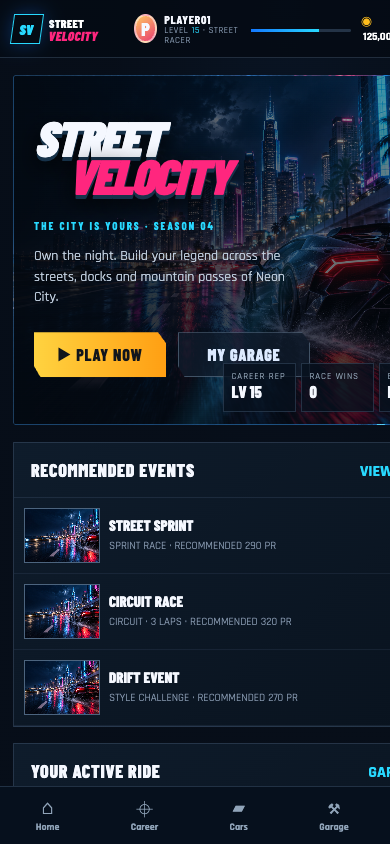
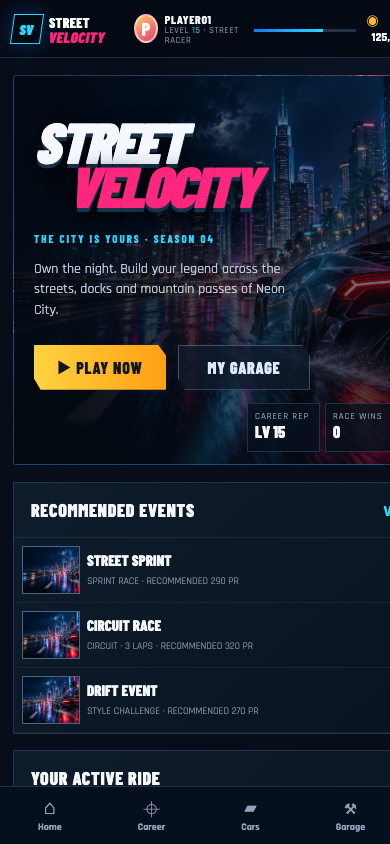
Improve phone layout and add game screenshots

diff --git a/Web_Game/style.css b/Web_Game/style.css
@@ -1,7 +1,7 @@
 @import url('https://fonts.googleapis.com/css2?family=Barlow+Condensed:wght@500;600;700;800;900&family=Rajdhani:wght@400;500;600;700&display=swap');
 :root{--bg:#07101d;--panel:rgba(9,19,33,.86);--line:rgba(143,181,222,.2);--muted:#8294aa;--text:#f5f8ff;--cyan:#28d9ff;--blue:#1479ff;--pink:#ff267e;--gold:#ffbd1c;--green:#31e994;--font:'Rajdhani',Arial,sans-serif;--display:'Barlow Condensed',Impact,sans-serif}*{box-sizing:border-box}html,body{height:100%;margin:0;background:var(--bg);color:var(--text);font-family:var(--font)}body{background:radial-gradient(ellipse at 74% 0%,#102744 0,transparent 43%),#060d17;overflow:hidden}button{font:inherit;color:inherit;cursor:pointer;border:0}button:focus-visible{outline:2px solid var(--cyan);outline-offset:2px}.app-shell{height:100dvh;min-height:480px;display:grid;grid-template-columns:220px 1fr;grid-template-rows:72px 1fr;overflow:hidden;background:linear-gradient(135deg,rgba(7,14,25,.7),rgba(7,14,25,.95))}.topbar{grid-column:1/3;display:flex;align-items:center;padding:0 28px;gap:24px;background:rgba(4,10,19,.84);border-bottom:1px solid var(--line);z-index:5}.brand{width:195px;display:flex;align-items:center;gap:10px;color:white;text-decoration:none;font:800 18px var(--display);letter-spacing:.3px}.brand b{color:var(--pink);display:block;line-height:15px;font-size:19px;transform:skew(-10deg)}.brand-mark{display:grid;place-items:center;width:36px;height:36px;border:1px solid var(--cyan);color:var(--cyan);font:900 17px var(--display);transform:skew(-8deg);box-shadow:0 0 18px #1479ff55}.profile{display:flex;align-items:center;gap:10px;min-width:200px}.avatar{width:35px;height:35px;border-radius:50%;background:linear-gradient(145deg,#ffc862,#e83c70);display:grid;place-items:center;font:800 18px var(--display);border:2px solid #fff8}.profile-copy{display:grid;line-height:1.1}.profile-copy b{font:700 14px var(--display);letter-spacing:.7px}.profile-copy small{color:var(--muted);font-size:11px;letter-spacing:.6px}.profile-copy small span{color:var(--cyan)}.xp{height:3px;width:130px;background:#243346;margin-top:4px;border-radius:4px}.xp i{display:block;width:68%;height:100%;background:linear-gradient(90deg,var(--blue),var(--cyan))}.wallet{margin-left:auto;display:flex;gap:21px;font-size:15px}.wallet span:first-child{color:var(--gold)}.wallet span:last-child{color:var(--cyan)}.wallet b{color:white;margin-left:5px}.icon-button,.menu-toggle{width:38px;height:38px;background:#111e2e;border:1px solid var(--line);font-size:19px;color:#d6e6fa}.menu-toggle{display:none}.sidebar{grid-row:2;background:rgba(6,14,24,.82);border-right:1px solid var(--line);padding:25px 14px;display:flex;flex-direction:column;gap:7px;z-index:4}.side-label{color:#5c6f84;font:700 11px var(--display);letter-spacing:1.4px;padding:0 12px 12px}.nav-item{background:transparent;text-align:left;border:1px solid transparent;border-radius:3px;padding:11px 12px;color:#aab8c9;font-size:15px;font-weight:700;letter-spacing:.3px;display:flex;align-items:center;gap:12px;transition:.18s}.nav-item span{color:#7e91a8;font-size:18px;width:18px;text-align:center}.nav-item:hover,.nav-item.active{color:white;background:linear-gradient(90deg,rgba(27,119,255,.25),rgba(24,165,230,.05));border-color:rgba(48,180,255,.18)}.nav-item.active{box-shadow:inset 3px 0 var(--cyan)}.nav-item.active span{color:var(--cyan)}.sidebar-bottom{margin-top:auto}.daily-mini{display:flex;align-items:center;gap:9px;padding:12px 9px;margin-bottom:9px;border:1px solid rgba(255,190,25,.2);background:linear-gradient(120deg,#252115,#121d29)}.daily-icon{color:var(--gold);font-size:20px}.daily-mini div{display:grid;line-height:1.05}.daily-mini b{font:700 13px var(--display)}.daily-mini small{font-size:11px;color:var(--muted)}.daily-mini button{margin-left:auto;background:none;color:var(--gold);font-size:22px}.main{position:relative;overflow:auto;scrollbar-width:thin;scrollbar-color:#273b52 transparent}.screen{display:none;min-height:100%;padding:26px clamp(20px,3vw,46px) 34px;animation:fade .24s ease}.screen.active{display:block}@keyframes fade{from{opacity:.4;transform:translateY(5px)}to{opacity:1;transform:none}}.page-heading{display:flex;align-items:end;justify-content:space-between;margin-bottom:22px}.eyebrow{font:700 11px var(--display);color:var(--cyan);letter-spacing:2px;text-transform:uppercase}.page-heading h1,.hero-copy h1{font:900 clamp(30px,4vw,50px)/.95 var(--display);letter-spacing:.5px;text-transform:uppercase;margin:5px 0 0}.subhead{color:#9db0c4;margin:7px 0 0;font-size:15px}.title-inline{display:flex;align-items:center;gap:14px}.back{background:transparent;border:1px solid var(--line);padding:8px 12px;color:#aebed0}.hero{position:relative;min-height:clamp(340px,50vh,510px);overflow:hidden;border:1px solid rgba(74,158,230,.35);background:#101d30 url('assets/neon-district.png') center 56%/cover;border-radius:3px;display:flex;align-items:center}.hero:before{content:"";position:absolute;inset:0;background:linear-gradient(90deg,rgba(3,9,17,.94) 0%,rgba(3,9,17,.76) 29%,rgba(4,10,19,.12) 67%,rgba(3,9,17,.1)),linear-gradient(0deg,rgba(3,9,17,.56),transparent 45%)}.hero:after{content:"";position:absolute;inset:0;pointer-events:none;background:linear-gradient(120deg,transparent 54%,rgba(32,190,255,.13),transparent 64%)}.hero-copy{position:relative;z-index:1;padding:clamp(28px,5vw,70px);max-width:570px}.hero-logo{font:900 clamp(48px,7vw,82px)/.78 var(--display);font-style:italic;letter-spacing:-2px;text-shadow:0 4px 0 #16324a,0 9px 24px #000}.hero-logo span{display:block;color:var(--pink);margin-left:34px}.hero-copy .eyebrow{margin-top:24px}.hero-copy p{max-width:400px;color:#c0cede;line-height:1.45;font-size:16px}.actions{display:flex;gap:12px;flex-wrap:wrap;margin-top:25px}.btn{padding:12px 22px;min-width:132px;font:800 16px var(--display);letter-spacing:.8px;text-transform:uppercase;clip-path:polygon(0 0,94% 0,100% 24%,100% 100%,5% 100%,0 75%);transition:.16s}.btn:hover{filter:brightness(1.13);transform:translateY(-1px)}.btn.primary{color:#11151c;background:linear-gradient(90deg,#ffd340,#ff9f13);box-shadow:0 0 22px #ffba2638}.btn.secondary{background:rgba(15,27,43,.78);border:1px solid #8da8c266;color:#dceaff}.btn.cyan{background:linear-gradient(90deg,#27d9ff,#197dff);color:#001321}.btn.pink{background:linear-gradient(90deg,#ff2779,#f249a5);color:white}.hero-stats{position:absolute;right:28px;bottom:24px;z-index:1;display:flex;gap:9px}.stat-chip{background:#06101dcc;border:1px solid var(--line);padding:10px 14px;min-width:104px}.stat-chip small{display:block;color:#93a5b7;font-size:11px;text-transform:uppercase;letter-spacing:1px}.stat-chip b{font:800 20px var(--display)}.content-grid{display:grid;grid-template-columns:1.65fr 1fr;gap:16px;margin-top:17px}.panel{background:linear-gradient(140deg,rgba(15,28,44,.96),rgba(9,18,30,.96));border:1px solid var(--line);position:relative;overflow:hidden}.panel-head{padding:14px 17px;display:flex;align-items:center;justify-content:space-between;border-bottom:1px solid rgba(143,181,222,.12)}.panel-head h2{font:800 18px var(--display);letter-spacing:.7px;text-transform:uppercase;margin:0}.text-link{color:var(--cyan);background:none;font-weight:700}.event-row{display:grid;grid-template-columns:112px 1fr auto;align-items:center;gap:14px;padding:12px 16px;border-bottom:1px solid rgba(143,181,222,.09)}.event-thumb{height:68px;background:url('assets/neon-district.png') center/cover;border:1px solid #4c647e}.event-info strong{font:800 18px var(--display);text-transform:uppercase;display:block}.event-info small{color:var(--muted)}.reward{color:var(--gold);font-weight:700;font-size:14px}.mini-car{height:80px;background:radial-gradient(ellipse at 55% 78%,#2469a455,transparent 40%),linear-gradient(135deg,#0e2034,#111927);display:flex;align-items:center;justify-content:center;font-size:44px;color:#e34265;text-shadow:0 8px 14px #fa205e65}.garage-summary{padding:0 17px 16px}.garage-summary h3{margin:0 0 2px;font:800 21px var(--display)}.garage-summary p{margin:0;color:var(--muted)}.bars{display:grid;grid-template-columns:repeat(3,1fr);gap:10px;margin-top:15px}.bar-label{display:flex;justify-content:space-between;font-size:11px;color:#a9b9ca;margin-bottom:4px}.bar{height:4px;background:#243449}.bar i{height:100%;display:block;background:linear-gradient(90deg,#118cff,#2de0ff)}.feature-strip{display:grid;grid-template-columns:repeat(4,1fr);gap:12px;margin-top:16px}.feature{padding:14px;background:rgba(13,25,40,.78);border:1px solid var(--line);min-height:86px;text-align:left}.feature:hover{border-color:#23beef77;background:#10243a}.feature b{display:block;font:800 17px var(--display);text-transform:uppercase}.feature small{color:var(--muted)}.feature .feature-icon{float:right;color:var(--cyan);font-size:23px}.map-layout{display:grid;grid-template-columns:1.5fr .8fr;gap:16px;min-height:440px}.map-art{position:relative;min-height:430px;overflow:hidden;background:linear-gradient(160deg,#0b2a40,#101328 54%,#221338);border:1px solid var(--line)}.map-art:before{content:"";position:absolute;inset:0;background:linear-gradient(35deg,transparent 46%,#1989d92b 47%,#1989d92b 48%,transparent 49%),linear-gradient(150deg,transparent 31%,#ed2b8a38 32%,#ed2b8a38 32.5%,transparent 33%),linear-gradient(83deg,transparent 65%,#28d9ff2c 66%,#28d9ff2c 66.5%,transparent 67%),radial-gradient(ellipse at 53% 42%,#148a9655,transparent 43%),repeating-linear-gradient(20deg,transparent 0 47px,#9ab9d015 48px 50px)}.map-art:after{content:"";position:absolute;inset:0;background:radial-gradient(circle at 27% 29%,#25d8ffcc 0 2px,transparent 3px),radial-gradient(circle at 54% 50%,#ff3a9acc 0 2px,transparent 3px),radial-gradient(circle at 77% 26%,#29d9ffcc 0 2px,transparent 3px);opacity:.9}.district{position:absolute;z-index:1;padding:10px 13px;background:#08111fe8;border:1px solid #41d6ff88;box-shadow:0 0 17px #1189ff35;min-width:112px;cursor:pointer}.district:hover,.district.selected{border-color:var(--gold);box-shadow:0 0 22px #ffba4142}.district b{font:800 16px var(--display);display:block;text-transform:uppercase}.district small{color:var(--gold)}.d1{left:9%;top:16%}.d2{left:42%;top:39%}.d3{right:7%;top:15%}.d4{left:20%;bottom:12%}.d5{right:22%;bottom:11%;border-color:#d537ef77}.map-side{padding:20px}.map-side h2{font:900 30px var(--display);margin:0;text-transform:uppercase}.map-side p{color:#9caec2;line-height:1.45}.event-list{display:grid;gap:9px;margin-top:18px}.event-option{padding:12px;background:#0b1726;border:1px solid var(--line);display:flex;align-items:center;gap:12px;text-align:left}.event-option.active{border-color:var(--cyan);background:#10273a}.event-symbol{width:37px;height:37px;background:#152a41;display:grid;place-items:center;color:var(--cyan);font-size:19px}.event-option b{display:block;font:800 16px var(--display);text-transform:uppercase}.event-option small{color:var(--muted)}.event-option .star{margin-left:auto;color:var(--gold)}.event-feature{height:140px;margin:17px 0;background:linear-gradient(0deg,#06101d77,#06101d00),url('assets/neon-district.png') center 54%/cover;border:1px solid var(--line)}.event-meta{display:flex;justify-content:space-between;padding:10px 0;border-bottom:1px solid var(--line);color:#aebed0}.event-meta b{color:white}.car-stage{min-height:370px;background:linear-gradient(90deg,rgba(5,14,24,.8),transparent 45%),url('assets/neon-district.png') center 58%/cover;border:1px solid var(--line);position:relative;display:flex;align-items:center;justify-content:center}.car-shape{font-size:clamp(130px,24vw,250px);color:#101a29;filter:drop-shadow(0 20px 18px #000) drop-shadow(0 0 7px #19c8ff);transform:scaleX(1.5) rotate(-7deg);text-shadow:0 2px 0 #92daff,0 0 24px #0af}.car-caption{position:absolute;left:24px;top:23px}.car-caption h2{font:900 32px var(--display);margin:0;text-transform:uppercase}.car-caption p{margin:2px;color:#9bb0c4}.car-selector{display:grid;grid-template-columns:repeat(5,1fr);gap:10px;margin-top:13px}.car-option{background:#0c1928;border:1px solid var(--line);padding:10px;text-align:left}.car-option.active{border-color:var(--cyan);box-shadow:0 0 14px #05bdf533}.car-option .car-mini{height:46px;background:linear-gradient(140deg,#15263a,#0b1320);display:grid;place-items:center;font-size:30px;color:var(--pink)}.car-option b{display:block;font:800 14px var(--display);margin-top:6px}.car-option small{color:var(--muted)}.garage-layout{display:grid;grid-template-columns:190px 1fr;gap:15px}.garage-tabs{display:grid;align-content:start;gap:7px}.garage-tab{padding:12px;text-align:left;background:#0c1827;border:1px solid var(--line);font:800 15px var(--display);text-transform:uppercase}.garage-tab.active{border-color:var(--gold);color:var(--gold)}.garage-detail{min-height:430px}.garage-detail .car-stage{height:330px;min-height:330px;border:0;border-bottom:1px solid var(--line)}.garage-detail .bars{padding:0 17px 18px;margin-top:14px}.custom-layout{display:grid;grid-template-columns:1.4fr .7fr;gap:15px}.preview-car{min-height:420px;display:grid;place-items:center;background:url('assets/neon-district.png') center/cover;border:1px solid var(--line)}.preview-car .car-shape{color:#cc174e}.custom-panel{padding:18px}.tabs{display:flex;gap:6px;border-bottom:1px solid var(--line);margin:12px 0 18px}.tab{background:transparent;padding:10px 12px;color:#9cacc0;font:700 13px var(--display);text-transform:uppercase}.tab.active{color:var(--cyan);border-bottom:2px solid var(--cyan)}.swatches{display:flex;gap:8px;flex-wrap:wrap}.swatch{width:34px;height:34px;border:2px solid #ffffff24;cursor:pointer}.swatch.selected{outline:2px solid white;outline-offset:2px}.range-row{margin:20px 0;color:#a9b8c8;font-size:14px}.range-row input{width:100%;accent-color:var(--cyan)}.upgrade-layout{display:grid;grid-template-columns:1fr 1fr;gap:15px}.engine-art{min-height:385px;background:radial-gradient(ellipse at center,#39516a,#101826 56%,#0b1320);display:grid;place-items:center;border:1px solid var(--line);font-size:150px;color:#94a9bc;text-shadow:0 0 30px #3298d966}.upgrade-panel{padding:22px}.upgrade-panel h2{font:900 30px var(--display);margin:0}.upgrade-item{display:flex;justify-content:space-between;gap:10px;padding:11px 0;border-bottom:1px solid var(--line)}.upgrade-item small{display:block;color:var(--muted)}.upgrade-item b{color:var(--green)}.parts-grid{grid-column:1/3;display:grid;grid-template-columns:repeat(6,1fr);gap:8px}.part-card{padding:10px;text-align:center;background:#0b1726;border:1px solid var(--line)}.part-card span{display:block;font-size:25px;color:#9db0c5}.part-card b{font:700 14px var(--display);display:block}.part-card small{color:var(--muted)}.race-stage{height:calc(100vh - 145px);min-height:450px;max-height:800px;position:relative;margin:-26px clamp(-46px,-3vw,-20px) -34px;overflow:hidden;background:#101a29}.race-world{position:absolute;inset:0;background:url('assets/neon-district.png') center 58%/cover;animation:drive 13s linear infinite}.race-world:after{content:"";position:absolute;inset:0;background:linear-gradient(0deg,#050a11ee,transparent 38%),linear-gradient(90deg,#060d176e,transparent 50%,#060d1777)}@keyframes drive{0%{background-position:center 58%}50%{background-position:50% 65%}100%{background-position:center 58%}}.race-hud{position:absolute;inset:20px 24px;z-index:1;display:flex;flex-direction:column;justify-content:space-between;pointer-events:none}.hud-top{display:flex;justify-content:space-between;align-items:flex-start}.hud-card{padding:10px 14px;background:#06101dcc;border:1px solid #bfdfff40;min-width:130px}.hud-card b{font:800 24px var(--display)}.hud-card small{display:block;color:#a4b7ca;letter-spacing:1px}.hud-center{position:absolute;left:50%;top:16px;transform:translateX(-50%);text-align:center;text-shadow:0 2px 7px #000}.hud-center strong{font:900 34px var(--display);color:var(--gold)}.hud-bottom{display:flex;align-items:end;justify-content:space-between}.steer-controls{display:flex;gap:10px;pointer-events:auto}.control-btn{width:64px;height:64px;border-radius:50%;background:#081421aa;border:1px solid #d6eaff8c;font-size:29px;color:white;touch-action:none}.control-btn:active{background:#18a9ddaa}.speedometer{width:125px;height:125px;border:5px solid #e9f8ff;border-radius:50%;background:#06101dc7;display:grid;place-items:center;box-shadow:0 0 15px #20caff5a}.speedometer b{font:900 35px var(--display);line-height:.8}.speedometer small{display:block;font:700 11px var(--display);text-align:center;color:#b4c5d5}.nitro-control{width:68px;height:68px;border-radius:50%;background:radial-gradient(circle,#00d9ff,#0877f7);font-size:23px;box-shadow:0 0 22px #00cfff66;border:2px solid #9df3ff;touch-action:none}.race-tools{display:flex;gap:8px;pointer-events:auto}.race-tools button{padding:8px 11px;background:#06101dcc;border:1px solid var(--line);color:#bcd0e3}.mini-map{width:120px;height:86px;background:radial-gradient(ellipse,#18374c,#08111e);border:1px solid #d6eaff88;border-radius:50%;position:relative;overflow:hidden}.mini-map:before{content:"";position:absolute;left:35%;top:-20%;width:42px;height:140%;border:2px solid #27cfff;transform:rotate(35deg);border-radius:50%}.mini-map:after{content:"▲";position:absolute;left:52%;top:43%;color:#ffd321}.race-feature{position:absolute;left:50%;top:36%;transform:translate(-50%,-50%);font:900 clamp(30px,5vw,62px) var(--display);font-style:italic;color:#32e4ff;text-shadow:0 4px 0 #044366,0 0 28px #00bfff;text-align:center;white-space:nowrap}.results-layout{max-width:900px;margin:auto;text-align:center;padding:30px 0}.results-bg{background:linear-gradient(0deg,#07101d 4%,#081321cc 48%,#081321cc),url('assets/neon-district.png') center/cover;border:1px solid var(--line);padding:40px 25px}.results-bg h1{font:900 clamp(46px,7vw,78px)/.9 var(--display);font-style:italic;color:var(--gold);margin:0}.stars{color:var(--gold);font-size:42px;letter-spacing:10px;margin:12px}.results-stats{display:grid;grid-template-columns:repeat(4,1fr);margin:28px auto;max-width:650px;border-top:1px solid var(--line);border-bottom:1px solid var(--line);padding:18px 0}.results-stats small{display:block;color:#9caec2}.results-stats b{font:800 22px var(--display)}.reward-cards{display:grid;grid-template-columns:repeat(7,1fr);gap:8px}.reward-day{padding:13px 7px;background:#0d1928;border:1px solid var(--line);text-align:center}.reward-day.active{border-color:var(--gold);background:#292214}.reward-day small{display:block;color:var(--muted)}.reward-day span{font-size:26px;color:var(--gold);display:block;margin:7px}.achievement{display:flex;align-items:center;gap:12px;padding:14px;background:#0c1928;border:1px solid var(--line);margin-bottom:9px}.achievement .badge{width:42px;height:42px;border-radius:50%;background:#342d18;color:var(--gold);display:grid;place-items:center;font-size:21px}.achievement b{font:800 17px var(--display);display:block}.achievement small{color:var(--muted)}.achievement .done{margin-left:auto;color:var(--green);font-size:21px}.settings-layout{display:grid;grid-template-columns:210px 1fr;gap:14px}.settings-nav{display:grid;align-content:start;gap:6px}.setting-content{padding:20px}.setting-row{display:flex;align-items:center;justify-content:space-between;padding:14px 0;border-bottom:1px solid var(--line)}.setting-row b{display:block;font-size:16px}.setting-row small{color:var(--muted)}.switch{width:42px;height:23px;border-radius:20px;background:#25354a;padding:3px}.switch:after{content:"";display:block;width:17px;height:17px;border-radius:50%;background:#7b8fa4;transition:.2s}.switch.on{background:#087eb1}.switch.on:after{transform:translateX(19px);background:white}.segmented{display:flex;background:#07101d;padding:3px;gap:2px}.segmented button{background:transparent;padding:5px 10px;color:#8da0b4}.segmented button.selected{background:#167ec4;color:white}.controls-layout{display:grid;grid-template-columns:1fr 1fr;gap:15px}.control-preview{min-height:340px;display:grid;place-items:center;background:radial-gradient(ellipse,#1c3249,#091321);border:1px solid var(--line)}.virtual-wheel{width:160px;height:160px;border:12px solid #8ca0b5;border-radius:50%;position:relative;display:grid;place-items:center;color:#a9c0d4;font-size:25px}.virtual-wheel:after{content:"";position:absolute;width:12px;height:68px;top:-4px;background:#8ca0b5}.map-full{height:calc(100vh - 230px);min-height:390px}.weather-grid,.world-grid{display:grid;grid-template-columns:repeat(4,1fr);gap:13px}.weather-card,.world-card{min-height:220px;background:linear-gradient(0deg,#07101de8,transparent 75%),url('assets/neon-district.png') center/cover;border:1px solid var(--line);display:flex;flex-direction:column;justify-content:end;padding:15px;cursor:pointer}.weather-card:nth-child(2){filter:hue-rotate(30deg)}.weather-card:nth-child(3){filter:saturate(.5)}.weather-card:nth-child(4){filter:grayscale(.6)}.world-card{min-height:250px}.world-card:nth-child(2){background-position:80% center;filter:hue-rotate(35deg)}.world-card:nth-child(3){background-position:left center;filter:hue-rotate(-20deg)}.world-card:nth-child(4){background-position:top center;filter:saturate(.6)}.weather-card b,.world-card b{font:900 23px var(--display);text-transform:uppercase}.weather-card small,.world-card small{color:#bac8d6}.toast{position:fixed;left:50%;bottom:28px;z-index:20;transform:translate(-50%,18px);opacity:0;padding:12px 18px;background:#0e2134;border:1px solid #35cbf8;color:white;box-shadow:0 10px 40px #0009;transition:.22s;pointer-events:none}.toast.show{opacity:1;transform:translate(-50%,0)}.mobile-nav{display:none}.mobile-only{display:none}
 @media(max-width:950px){.app-shell{grid-template-columns:175px 1fr}.brand{width:160px}.topbar{padding:0 17px;gap:15px}.sidebar{padding:20px 10px}.content-grid,.map-layout,.custom-layout{grid-template-columns:1fr}.map-art{min-height:350px}.map-side{display:grid;grid-template-columns:1fr 1fr;gap:0 20px}.event-list{grid-row:span 4}.event-feature{margin:0}.parts-grid{grid-template-columns:repeat(3,1fr)}}
-@media(max-width:680px){body{overflow:hidden}.app-shell{grid-template-columns:1fr;grid-template-rows:58px 1fr 58px;min-height:0}.topbar{grid-column:1;grid-row:1;padding:0 12px;gap:10px}.brand{width:auto;min-width:112px;gap:7px;font-size:14px}.brand-mark{width:30px;height:30px;font-size:14px}.brand b{font-size:15px;line-height:12px}.profile{min-width:0;gap:7px}.profile-copy b{font-size:12px}.profile-copy small{font-size:9px}.profile-copy .xp{width:65px}.avatar{width:29px;height:29px}.wallet{gap:10px;font-size:12px}.icon-button{width:32px;height:32px}.menu-toggle{display:none}.sidebar{display:none}.main{grid-row:2}.screen{padding:17px 13px 20px}.mobile-nav{grid-row:3;display:flex;justify-content:space-around;align-items:center;background:#06101df5;border-top:1px solid var(--line);padding-bottom:env(safe-area-inset-bottom);z-index:6}.mobile-nav button{background:none;color:#90a4b9;font-size:20px;display:grid;place-items:center;line-height:1;padding:5px 11px}.mobile-nav button small{font:700 10px var(--font);margin-top:3px}.page-heading{margin-bottom:15px}.page-heading h1{font-size:35px}.hero{min-height:390px;background-position:60% center}.hero:before{background:linear-gradient(90deg,#030911e8,#03091166 70%),linear-gradient(0deg,#03091199,transparent)}.hero-copy{padding:25px 20px;align-self:flex-start;margin-top:18px}.hero-logo{font-size:57px}.hero-copy p{max-width:270px;font-size:14px}.hero-stats{right:10px;bottom:12px;gap:5px}.stat-chip{min-width:73px;padding:7px}.stat-chip b{font-size:16px}.stat-chip small{font-size:9px}.content-grid{grid-template-columns:1fr}.feature-strip{grid-template-columns:repeat(2,1fr);gap:8px}.event-row{grid-template-columns:76px 1fr auto;gap:9px;padding:10px}.event-thumb{height:55px}.event-info strong{font-size:15px}.event-info small{font-size:11px}.reward{font-size:11px}.map-layout{grid-template-columns:1fr}.map-art{min-height:310px}.district{min-width:90px;padding:7px 9px}.district b{font-size:13px}.map-side{display:block;padding:15px}.event-feature{height:115px;margin:12px 0}.car-stage{min-height:280px}.car-shape{font-size:135px}.car-selector{grid-template-columns:repeat(3,1fr);gap:7px}.car-option:nth-child(n+4){display:none}.garage-layout{grid-template-columns:1fr}.garage-tabs{display:flex;overflow:auto}.garage-tab{white-space:nowrap}.garage-detail .car-stage{height:250px;min-height:250px}.custom-layout{grid-template-columns:1fr}.preview-car{min-height:260px}.upgrade-layout{grid-template-columns:1fr 1fr}.engine-art{min-height:230px;font-size:90px}.upgrade-panel{padding:14px}.upgrade-panel h2{font-size:23px}.upgrade-item{font-size:13px}.parts-grid{grid-column:1/3;grid-template-columns:repeat(3,1fr)}.race-stage{height:calc(100dvh - 116px);min-height:360px;margin:-17px -13px -20px}.race-hud{inset:12px}.hud-card{min-width:92px;padding:7px 9px}.hud-card b{font-size:19px}.hud-center strong{font-size:26px}.speedometer{width:95px;height:95px;border-width:4px}.speedometer b{font-size:28px}.control-btn{width:54px;height:54px}.nitro-control{width:58px;height:58px}.mini-map{width:85px;height:62px}.race-tools button{font-size:11px;padding:6px}.race-feature{top:38%;font-size:35px}.results-layout{padding:12px 0}.results-bg{padding:30px 13px}.stars{font-size:34px}.results-stats{grid-template-columns:repeat(2,1fr);gap:15px}.reward-cards{grid-template-columns:repeat(4,1fr)}.settings-layout{grid-template-columns:1fr}.settings-nav{display:flex;overflow:auto}.settings-nav .garage-tab{font-size:13px}.setting-content{padding:14px}.controls-layout{grid-template-columns:1fr}.control-preview{min-height:210px}.weather-grid,.world-grid{grid-template-columns:repeat(2,1fr);gap:8px}.weather-card,.world-card{min-height:160px;padding:11px}.weather-card b,.world-card b{font-size:19px}.map-full{height:calc(100dvh - 260px);min-height:320px}.subhead{font-size:13px}.mobile-only{display:block}}
-@media(max-width:390px){.profile-copy .xp{display:none}.wallet{gap:6px}.brand{font-size:12px}.brand b{font-size:13px}.wallet span{font-size:11px}.wallet b{margin-left:2px}.icon-button{width:29px;height:29px}.hero-logo{font-size:49px}.hero{min-height:350px}.hud-bottom{gap:5px}.race-tools{display:none}}
+@media(max-width:680px){body{overflow:hidden}.app-shell{grid-template-columns:minmax(0,1fr);grid-template-rows:58px 1fr 58px;min-height:0}.topbar{grid-column:1;grid-row:1;padding:0 12px;gap:10px}.brand{width:auto;min-width:112px;gap:7px;font-size:14px}.brand-mark{width:30px;height:30px;font-size:14px}.brand b{font-size:15px;line-height:12px}.profile{min-width:0;gap:7px}.profile-copy b{font-size:12px}.profile-copy small{font-size:9px}.profile-copy .xp{width:65px}.avatar{width:29px;height:29px}.wallet{gap:10px;font-size:12px}.icon-button{width:32px;height:32px}.menu-toggle{display:none}.sidebar{display:none}.main{grid-row:2;min-width:0;width:100%;overflow-x:hidden}.screen{width:100%;min-width:0;padding:17px 13px 20px}.panel,.content-grid,.hero{min-width:0;max-width:100%}.mobile-nav{grid-row:3;display:flex;justify-content:space-around;align-items:center;background:#06101df5;border-top:1px solid var(--line);padding-bottom:env(safe-area-inset-bottom);z-index:6}.mobile-nav button{background:none;color:#90a4b9;font-size:20px;display:grid;place-items:center;line-height:1;padding:5px 11px}.mobile-nav button small{font:700 10px var(--font);margin-top:3px}.page-heading{margin-bottom:15px}.page-heading h1{font-size:35px}.hero{min-height:390px;background-position:60% center}.hero:before{background:linear-gradient(90deg,#030911e8,#03091166 70%),linear-gradient(0deg,#03091199,transparent)}.hero-copy{padding:25px 20px;align-self:flex-start;margin-top:18px}.hero-logo{font-size:57px}.hero-copy p{max-width:270px;font-size:14px}.hero-stats{right:10px;bottom:12px;gap:5px}.stat-chip{min-width:73px;padding:7px}.stat-chip b{font-size:16px}.stat-chip small{font-size:9px}.content-grid{grid-template-columns:1fr}.feature-strip{grid-template-columns:repeat(2,1fr);gap:8px}.event-row{grid-template-columns:58px minmax(0,1fr) auto;gap:7px;padding:8px}.event-thumb{height:48px}.event-info{min-width:0}.event-info strong{font-size:15px}.event-info small{font-size:10px;overflow-wrap:anywhere}.reward{font-size:10px;white-space:nowrap}.map-layout{grid-template-columns:1fr}.map-art{min-height:310px}.district{min-width:90px;padding:7px 9px}.district b{font-size:13px}.map-side{display:block;padding:15px}.event-feature{height:115px;margin:12px 0}.car-stage{min-height:280px}.car-shape{font-size:135px}.car-selector{grid-template-columns:repeat(3,1fr);gap:7px}.car-option:nth-child(n+4){display:none}.garage-layout{grid-template-columns:1fr}.garage-tabs{display:flex;overflow:auto}.garage-tab{white-space:nowrap}.garage-detail .car-stage{height:250px;min-height:250px}.custom-layout{grid-template-columns:1fr}.preview-car{min-height:260px}.upgrade-layout{grid-template-columns:1fr 1fr}.engine-art{min-height:230px;font-size:90px}.upgrade-panel{padding:14px}.upgrade-panel h2{font-size:23px}.upgrade-item{font-size:13px}.parts-grid{grid-column:1/3;grid-template-columns:repeat(3,1fr)}.race-stage{height:calc(100dvh - 116px);min-height:360px;margin:-17px -13px -20px}.race-hud{inset:12px}.hud-card{min-width:92px;padding:7px 9px}.hud-card b{font-size:19px}.hud-center strong{font-size:26px}.speedometer{width:95px;height:95px;border-width:4px}.speedometer b{font-size:28px}.control-btn{width:54px;height:54px}.nitro-control{width:58px;height:58px}.mini-map{width:85px;height:62px}.race-tools button{font-size:11px;padding:6px}.race-feature{top:38%;font-size:35px}.results-layout{padding:12px 0}.results-bg{padding:30px 13px}.stars{font-size:34px}.results-stats{grid-template-columns:repeat(2,1fr);gap:15px}.reward-cards{grid-template-columns:repeat(4,1fr)}.settings-layout{grid-template-columns:1fr}.settings-nav{display:flex;overflow:auto}.settings-nav .garage-tab{font-size:13px}.setting-content{padding:14px}.controls-layout{grid-template-columns:1fr}.control-preview{min-height:210px}.weather-grid,.world-grid{grid-template-columns:repeat(2,1fr);gap:8px}.weather-card,.world-card{min-height:160px;padding:11px}.weather-card b,.world-card b{font-size:19px}.map-full{height:calc(100dvh - 260px);min-height:320px}.subhead{font-size:13px}.mobile-only{display:block}}
+@media(max-width:390px){.topbar{padding:0 8px;gap:6px}.brand{font-size:12px;min-width:104px}.brand b{font-size:13px}.profile{flex:1;overflow:hidden}.profile-copy{min-width:0}.profile-copy .xp{display:none}.wallet{gap:6px;font-size:11px}.wallet span:last-child{display:none}.wallet b{margin-left:2px}.icon-button{width:29px;flex:0 0 29px}.hero-logo{font-size:49px}.hero{min-height:430px}.hero-stats{left:8px;right:8px;bottom:9px;justify-content:flex-end}.stat-chip{min-width:0;flex:1;padding:6px}.stat-chip small{font-size:8px;letter-spacing:.4px}.stat-chip b{font-size:15px}.hud-bottom{gap:5px}.race-tools{display:none}.map-art .d1{left:7%;top:14%}.map-art .d2{left:45%;top:35%}.map-art .d3{right:6%;top:13%}.map-art .d4{left:12%;bottom:7%}.map-art .d5{left:57%;bottom:7%}[data-page=career] .map-art>.district:last-child{display:none}}
 .splash{position:relative;min-height:calc(100dvh - 130px);margin:-26px clamp(-46px,-3vw,-20px) -34px;display:flex;flex-direction:column;align-items:center;justify-content:center;text-align:center;overflow:hidden;background:linear-gradient(90deg,#040a14cc,#040a1422 65%,#040a1466),linear-gradient(0deg,#040a14aa,transparent 45%),url('assets/neon-district.png') center/cover}.splash-logo{font:900 clamp(72px,13vw,150px)/.78 var(--display);font-style:italic;letter-spacing:-4px;text-shadow:0 6px 0 #10243d,0 12px 30px #000}.splash-logo span{display:block;color:var(--pink);margin-left:48px}.splash-kicker{font:700 13px var(--display);letter-spacing:5px;color:#c9d9e9;margin:25px 0 23px}.splash small{position:absolute;bottom:24px;color:#91a5bb;letter-spacing:1.5px}
 @media(max-width:680px){.splash{min-height:calc(100dvh - 116px);margin:-17px -13px -20px}.splash-logo{font-size:clamp(65px,17vw,100px)}}
